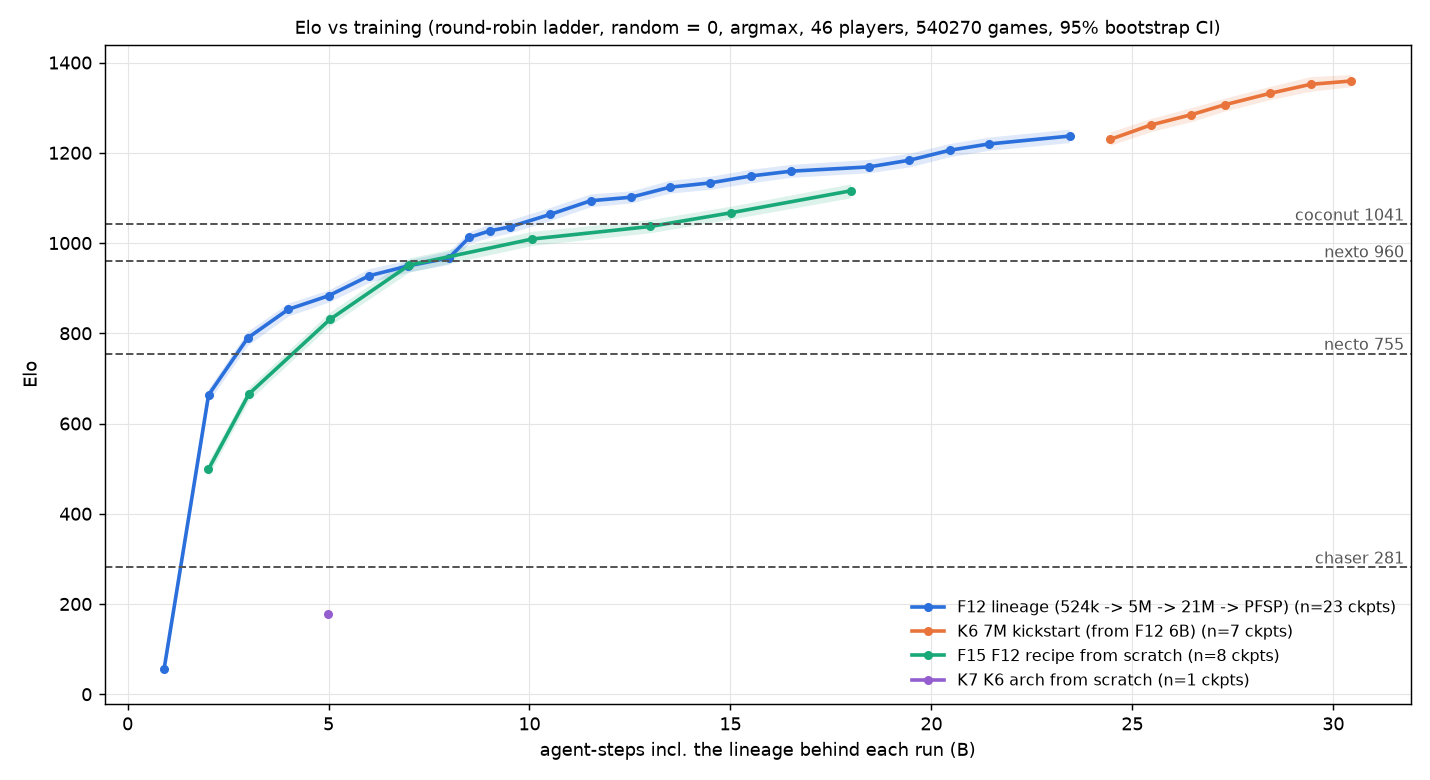
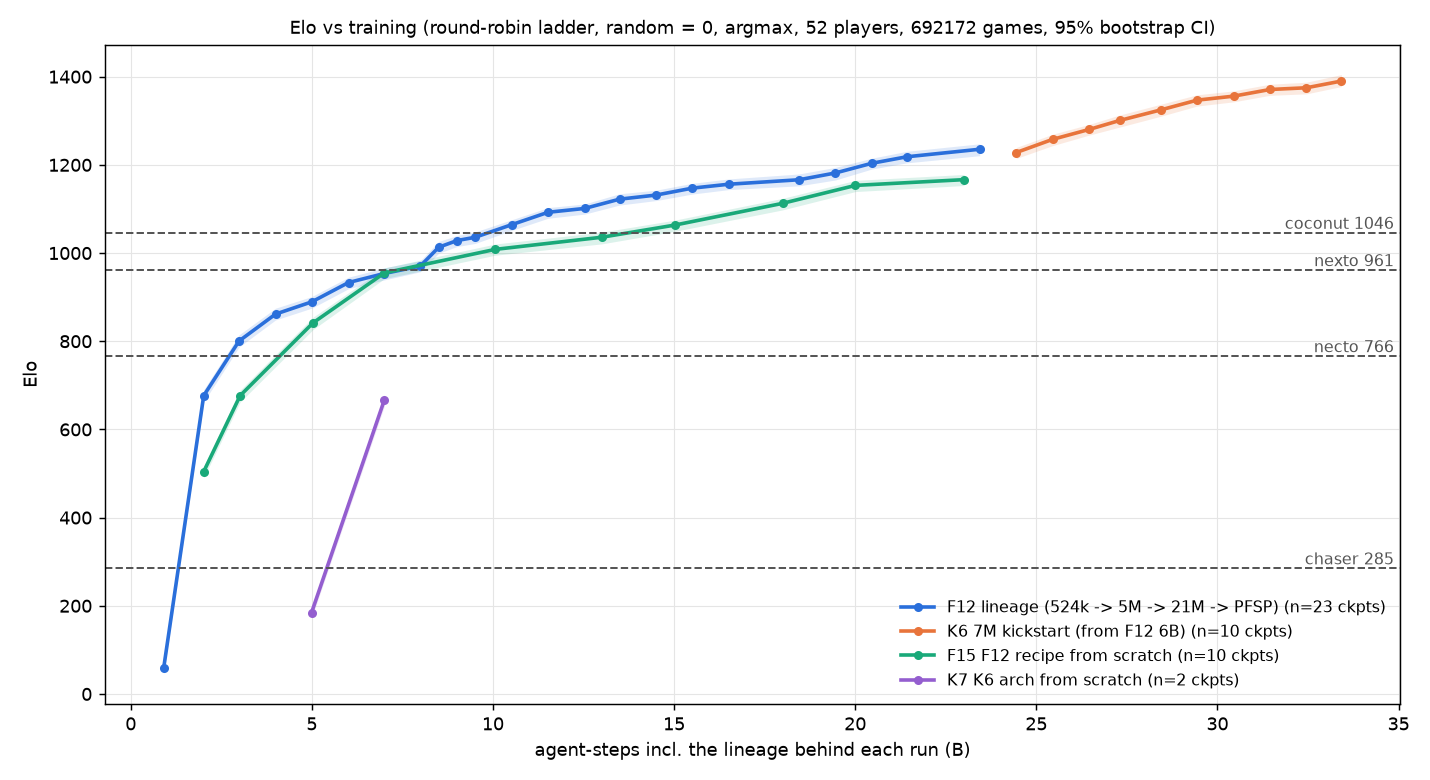
Elo chart and numbers updated to the 2026-10-04 ladder (K6 10B 1390)
Claude-Session: https://claude.ai/code/session_017pzU26bteYP6WByNrDGG6G

diff --git a/rocket-league/index.html b/rocket-league/index.html
@@ -81,9 +81,9 @@
       <tr><td>3v3</td><td>ChadGPT</td><td>5.8 / 1.6 (94% wins)</td><td>128</td></tr>
       <tr><td>3v3</td><td>Wisp v2</td><td>5.4 / 0.8 (98% wins)</td><td>128</td></tr>
     </tbody></table></div>
-  <p>Elo from a round-robin ladder (a random policy = 0): Nexto 960, Coconut 1041, best Terminal checkpoint 1359.</p>
+  <p>Elo from a round-robin ladder (a random policy = 0): Nexto 961, Coconut 1046, best Terminal checkpoint 1390.</p>
   <p class="caveat">All numbers are from simulation (RocketSim), not the real game.</p>
-  <figure class="chart"><img loading="lazy" src="img/elo.png" width="1432" height="780" alt="Elo versus training steps for the Terminal lineage, with Nexto, Necto and Coconut as reference lines"><figcaption>Elo versus training experience (round-robin ladder, 95% bootstrap CI).</figcaption></figure>
+  <figure class="chart"><img loading="lazy" src="img/elo.png" width="1430" height="780" alt="Elo versus training steps for the Terminal lineage, with Nexto, Necto and Coconut as reference lines"><figcaption>Elo versus training experience (round-robin ladder, 95% bootstrap CI).</figcaption></figure>
   <figure class="chart"><img loading="lazy" src="img/vs_nexto.png" width="2340" height="676" alt="Goals for, goals against and duplicate score versus Nexto over training"><figcaption>Strength versus Nexto over training: goals for, goals against and duplicate score on random starts.</figcaption></figure>
 </section>
 </main>
